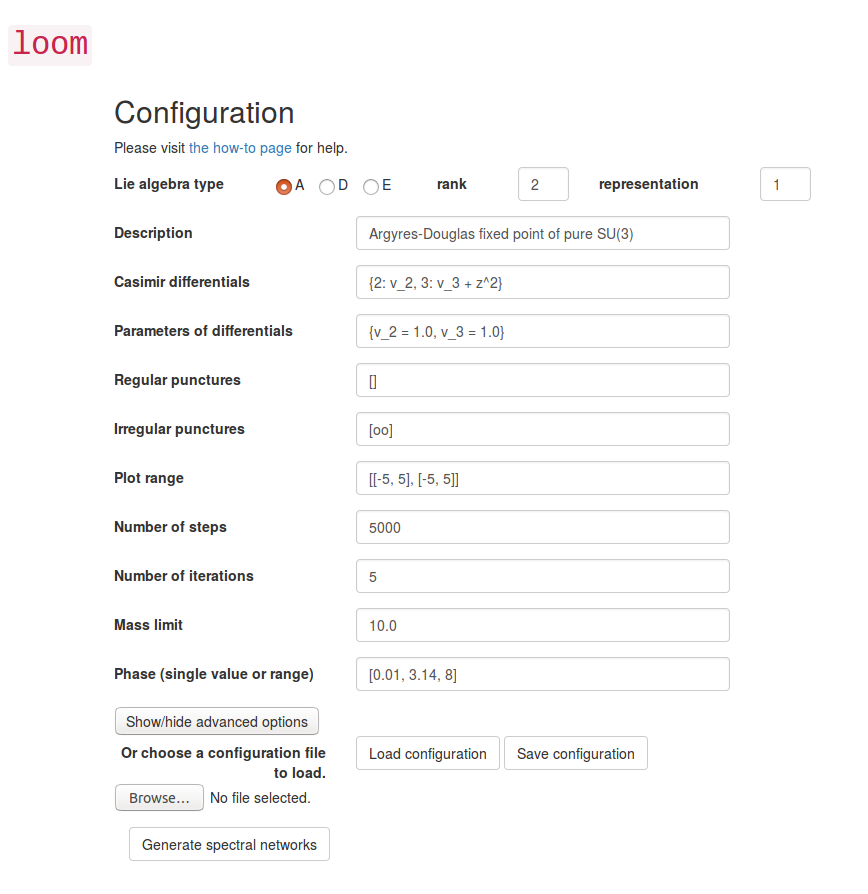
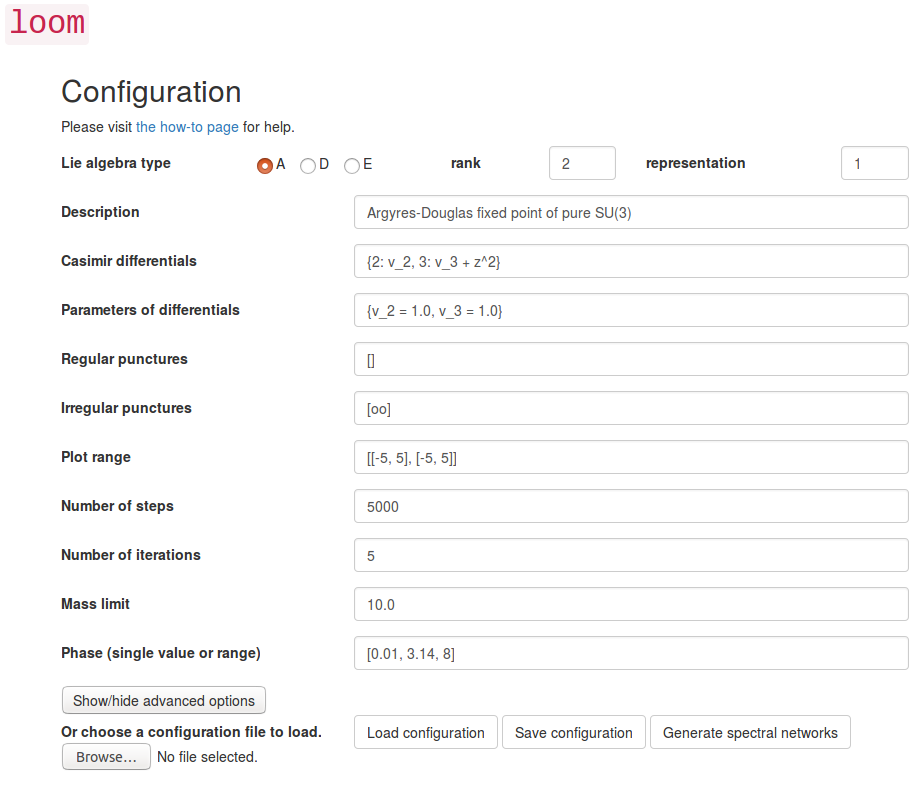
minor updates

diff --git a/templates/config.html b/templates/config.html
@@ -19,7 +19,7 @@
                 <input type="file" 
                  name="config_file" id="config_file">
             </div>
-            <div class="col-xs-4">
+            <div class="col-xs-6">
                 <input type="submit" class="btn btn-default"
                  id="load_config_button"
                  formaction="" value="Load configuration">
@@ -27,17 +27,20 @@
                  id="save_config_button"
                  form="config_form" formaction="{{ url_for('save_config') }}"
                  value="Save configuration">
+                <input type="submit" class="btn btn-default" form="config_form" 
+                 value="Generate spectral networks">
             </div>
         </div>
         <input type="hidden" name="n_processes" value="{{ n_processes }}">
     </form>
-
+<!--
     <form class="form-horizontal">
         <div class="col-xs-2">
             <input type="submit" class="btn btn-default" form="config_form" 
              value="Generate spectral networks">
         </div>
     </form>
+-->
     <br/>
 {% endif %}
 </div>

diff --git a/templates/index.html b/templates/index.html
@@ -3,8 +3,8 @@
 <div style="width:800px; margin:20px 20px 20px 20px">
     <p><code>loom</code> generates a spectral network in a representation of \(\mathfrak{g} = \mathrm{A}_n, \mathrm{D}_n, \mathrm{E}_6\), or \(\mathrm{E}_7\). For more detail, see
         <ul>
-            <li> <a href=http://arxiv.org/abs/arXiv:1204.4824>Spectral networks [Gaiotto-Moore-Neitzke (2012)</a>
-            <li> <a href=http://arxiv.org/abs/arXiv:1601.02633>ADE Spectral Networks [Longhi-Park] (2016)</a>
+            <li> <a href=http://arxiv.org/abs/arXiv:1204.4824>Spectral networks [Gaiotto, Moore, Neitzke (2012)]</a>
+            <li> <a href=http://arxiv.org/abs/arXiv:1601.02633>ADE Spectral Networks [Longhi, Park (2016)]</a>
         </ul>
     </p>
     <p><code>loom</code> is an open-source project. </p>

diff --git a/templates/config_form.html b/templates/config_form.html
@@ -59,7 +59,7 @@
                     {{ loom_config.get_label(option) }}
                 </label>
             </div>
-            <div class="col-xs-5">
+            <div class="col-xs-6">
                 <input type="text" class="form-control"
                  name="{{ option }}" id="{{ option }}_text"
                  value="{{ loom_config[option] }}">

diff --git a/loom/bokeh_plot.py b/loom/bokeh_plot.py
@@ -23,7 +23,9 @@ def get_spectral_network_bokeh_plot(
     plot_two_way_streets=False,
     soliton_tree_data=None,
     plot_width=800, plot_height=800,
-    notebook=False, logger_name=None,
+    notebook=False,
+    slide=False,
+    logger_name=None,
     marked_points=[],
     without_errors=False,
     download=False,
@@ -247,13 +249,13 @@ def get_spectral_network_bokeh_plot(
 
     # XXX: Where is a good place to put the following?
     custom_js_code = ''
-    if notebook is True:
+    if notebook is True or slide is True:
         with open('static/bokeh_callbacks.js', 'r') as fp:
             custom_js_code += fp.read()
             custom_js_code += '\n'
 
     # Data source for plot ranges
-    if download is False and notebook is False:
+    if download is False and notebook is False and slide is False:
         range_callback = CustomJS(
             args={
                 'x_range': bokeh_figure.x_range,
@@ -380,6 +382,8 @@ def get_spectral_network_bokeh_plot(
     if notebook is True:
         # TODO: Include phase text input
         return vform(*notebook_vform_elements, width=plot_width)
+    elif slide is True:
+        return plot
     else:
         return bokeh.embed.components(bokeh_obj)
 

diff --git a/loom/web_api.py b/loom/web_api.py
@@ -112,7 +112,10 @@ class LoomDB(object):
         while not self.db_manager_stop.wait(DB_CLEANUP_CYCLE_SECS):
             to_delete = []
             for process_uuid, result_queue in result_queues.iteritems():
-                age = time.time() - result_queue.timestamp
+                timestamp = result_queue.timestamp
+                if timestamp is None:
+                    continue
+                age = time.time() - timestamp
                 if age > RESULT_QUEUE_LIFETIME_SECS:
                     logger.info(
                         'Deleting an old queue {}...'

diff --git a/loom/geometry.py b/loom/geometry.py
@@ -3,7 +3,7 @@ import numpy
 import logging
 import copy
 import json
-# import pdb
+import pdb
 import sympy.mpmath as mpmath
 
 from sympy import oo, I
@@ -1672,6 +1672,9 @@ def get_ramification_points_from_branch_points(
                 sols.append([complex(z_i), (complex(x_j), m_x)])
             if no_ramification is True:
                 logger.warning('No ramification @ z = {}.'.format(z_i))
+                logger.warning(
+                    'f_x_roots = {}.'.format([complex(x) for x in f_x_roots])
+                )
     return sols
 
 

diff --git a/gmain.py b/gmain.py
@@ -8,4 +8,4 @@ from loom.gui import open_gui
 
 config_file_path = os.path.join(get_loom_dir(), 'config/default.ini')
 open_gui(config_file_path=config_file_path,
-         logging_level_name='INFO')
+         logging_level=logging.INFO)
